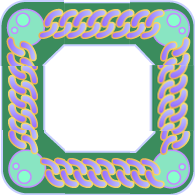
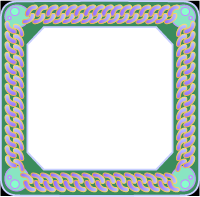
Update frame

diff --git a/src/components/userCards/UserCard.vue b/src/components/userCards/UserCard.vue
@@ -131,11 +131,11 @@
             transition: all 0.5s ease;
         }
 
-        $card-scale: 0.25;
+        $card-scale: 0.30;
 
         &.active {
             .tidy &{
-                transform: scale($card-scale) rotate(30deg);
+                transform: scale($card-scale) translateY(4rem) rotate(30deg);
                 transform-origin: bottom;
                 margin-bottom: 0;
                 z-index: 4;
@@ -152,13 +152,13 @@
         }
 
         &.small {
-            transform: scale($card-scale);
+            transform: scale($card-scale) translateY(4rem);
             transform-origin: bottom;
             margin-bottom: 0;
             z-index: 3;
 
             &--left {
-                transform: scale($card-scale) rotate(-30deg);
+                transform: scale($card-scale) translateY(4rem) rotate(-30deg);
                 transform-origin: bottom;
                 margin-bottom: 0;
                 z-index: 2;
@@ -168,7 +168,7 @@
                 }
             }
             &--right {
-                transform: scale($card-scale) rotate(30deg);
+                transform: scale($card-scale)  rotate(30deg);
                 transform-origin: bottom;
                 margin-bottom: 0;
                 z-index: 4;

diff --git a/src/components/Frame.vue b/src/components/Frame.vue
@@ -30,9 +30,6 @@
         pointer-events: none; // Allow scroll under frame
         box-sizing: border-box;
         border: 45px solid;
-        border-image: url('~@/assets/images/cadre.png') 65 / 45px round;
-
-        transform: scaleY(1.005); // Temporary fix
-
+        border-image: url('~@/assets/images/cadre.png') 68 / 70px round;
     }
 </style>
